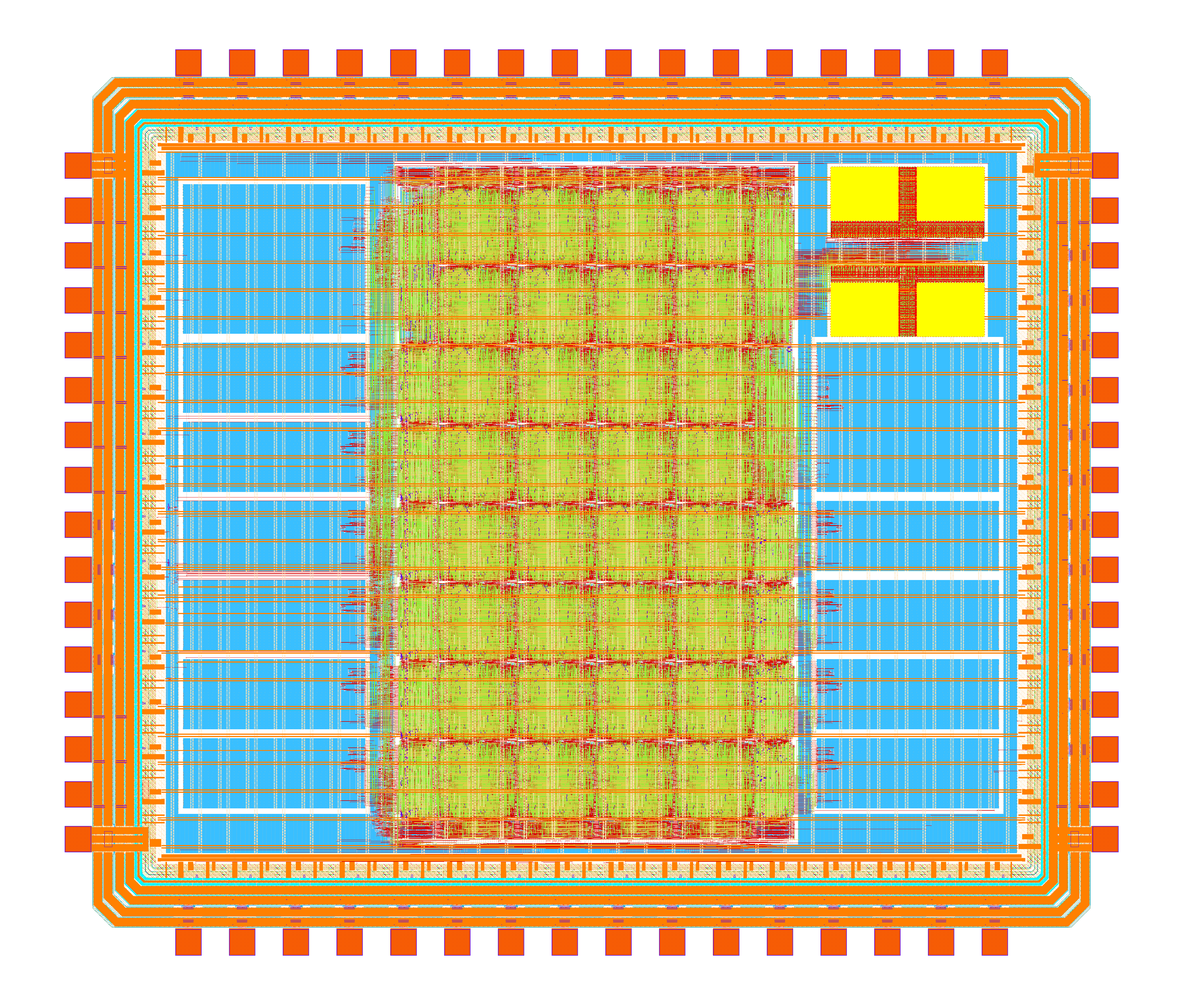
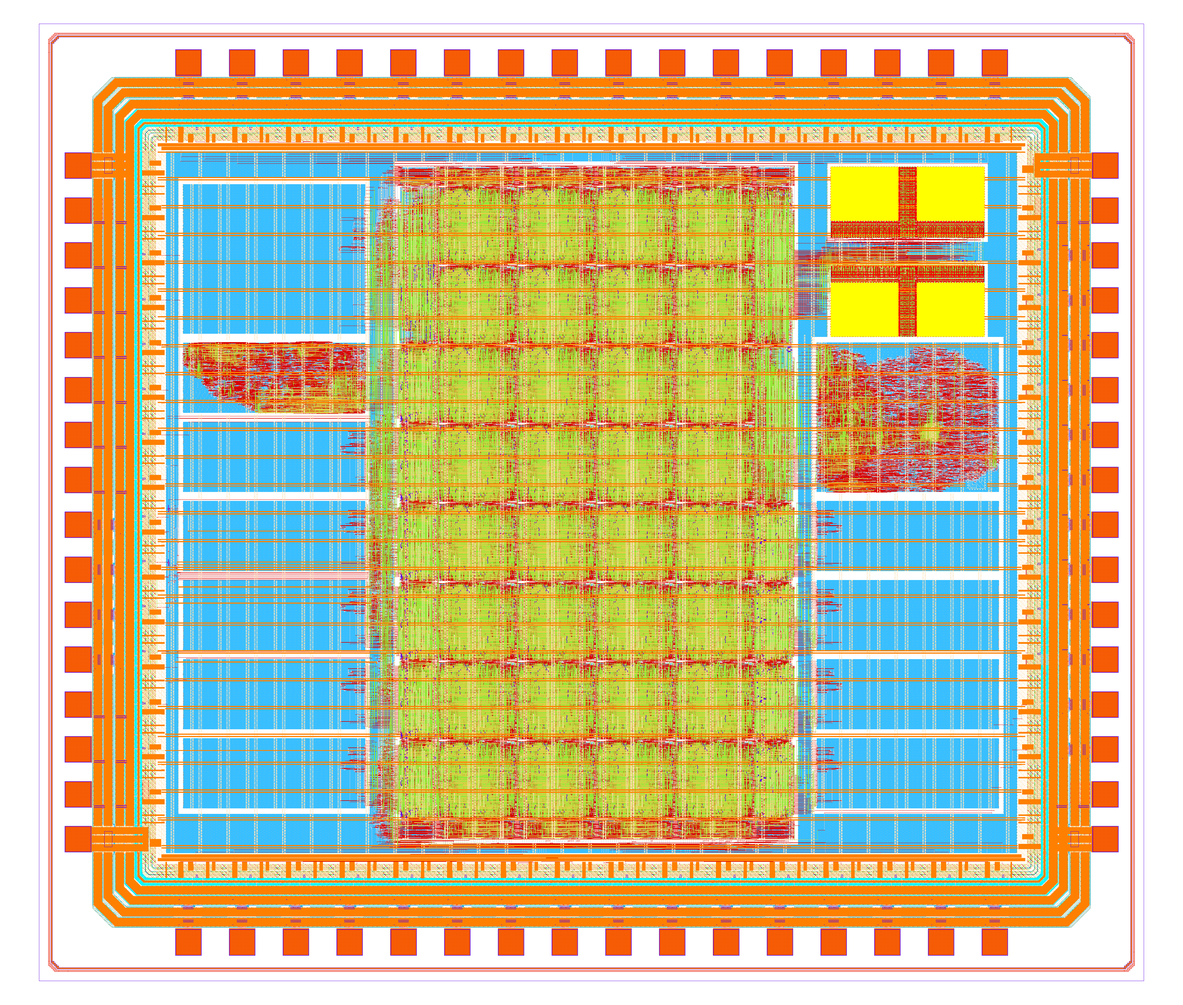
Integrate CORDIC and FazyRV

diff --git a/ip/fabric/rtl/io_mappings.py b/ip/fabric/rtl/io_mappings.py
@@ -9,7 +9,7 @@ SRAM_WIDTH = 32
 tt_projects = {
     # left side
     'X0Y2': ('heichips25_example_large', 'heichips25_example_large_0'),
-    'X0Y3': ('heichips25_example_small', 'heichips25_example_small_0'),
+    'X0Y3': ('heichips25_CORDIC', 'heichips25_example_small_0'),
     'X0Y4': ('heichips25_example_small', 'heichips25_example_small_1'),
     'X0Y5': ('heichips25_example_small', 'heichips25_example_small_2'),
     'X0Y6': ('heichips25_example_small', 'heichips25_example_small_3'),
@@ -19,7 +19,7 @@ tt_projects = {
     # right side
     # SRAM Top
     # SRAM Bot
-    'X5Y4': ('heichips25_example_large', 'heichips25_example_large_1'),
+    'X5Y4': ('heichips25_fazyrv_exotiny', 'heichips25_example_large_1'),
     'X5Y5': ('heichips25_example_small', 'heichips25_example_small_6'),
     'X5Y6': ('heichips25_example_small', 'heichips25_example_small_7'),
     'X5Y7': ('heichips25_example_small', 'heichips25_example_small_8'),

diff --git a/README.md b/README.md
@@ -33,20 +33,20 @@ The following user projects are included:
 
 | Group | Size | Location | Description |
 |---------------|---------------|---------------|---------------|
-|               |               | X0Y1          |               |
 |               |               | X0Y2          |               |
-|               |               | X0Y3          |               |
+| heichips25_CORDIC | Small | X0Y3          |               |
 |               |               | X0Y4          |               |
 |               |               | X0Y5          |               |
 |               |               | X0Y6          |               |
 |               |               | X0Y7          |               |
 |               |               | X0Y8          |               |
-|               |               | X5Y3          |               |
-|               |               | X5Y4          |               |
+| heichips25_fazyrv_exotiny | Large | X5Y4          |               |
 |               |               | X5Y5          |               |
 |               |               | X5Y6          |               |
 |               |               | X5Y7          |               |
 |               |               | X5Y8          |               |
+
+## Configuration of the FPGA Fabric
 
 The eFPGA fabric can be configured using the SPI peripheral or the SPI controller, depending on the value of `fpga_mode`. If the SPI controller is selected, upon startup it will fetch the bitstream from slot 0 of the external SPI flash. Using the slot input and the trigger one can initiate a reconfiguration. If the SPI peripheral is selected it will wait for bitstream data on the SPI interface upon startup.
 
@@ -113,3 +113,5 @@ The chip is licensed under the Apache 2.0 license. This license may *not* apply 
 ## Acknowledgements
 
 The chip was designed by Leo Moser for the HeiChips Summer School 2025.
+
+Thanks to [Heidelberg University](https://www.uni-heidelberg.de/en), [BMFTR](https://www.bmftr.bund.de/) and [Chipdesign Germany](https://www.chipdesign-germany.de/en/) for the finanical support enabling the tapeout of the chip.
